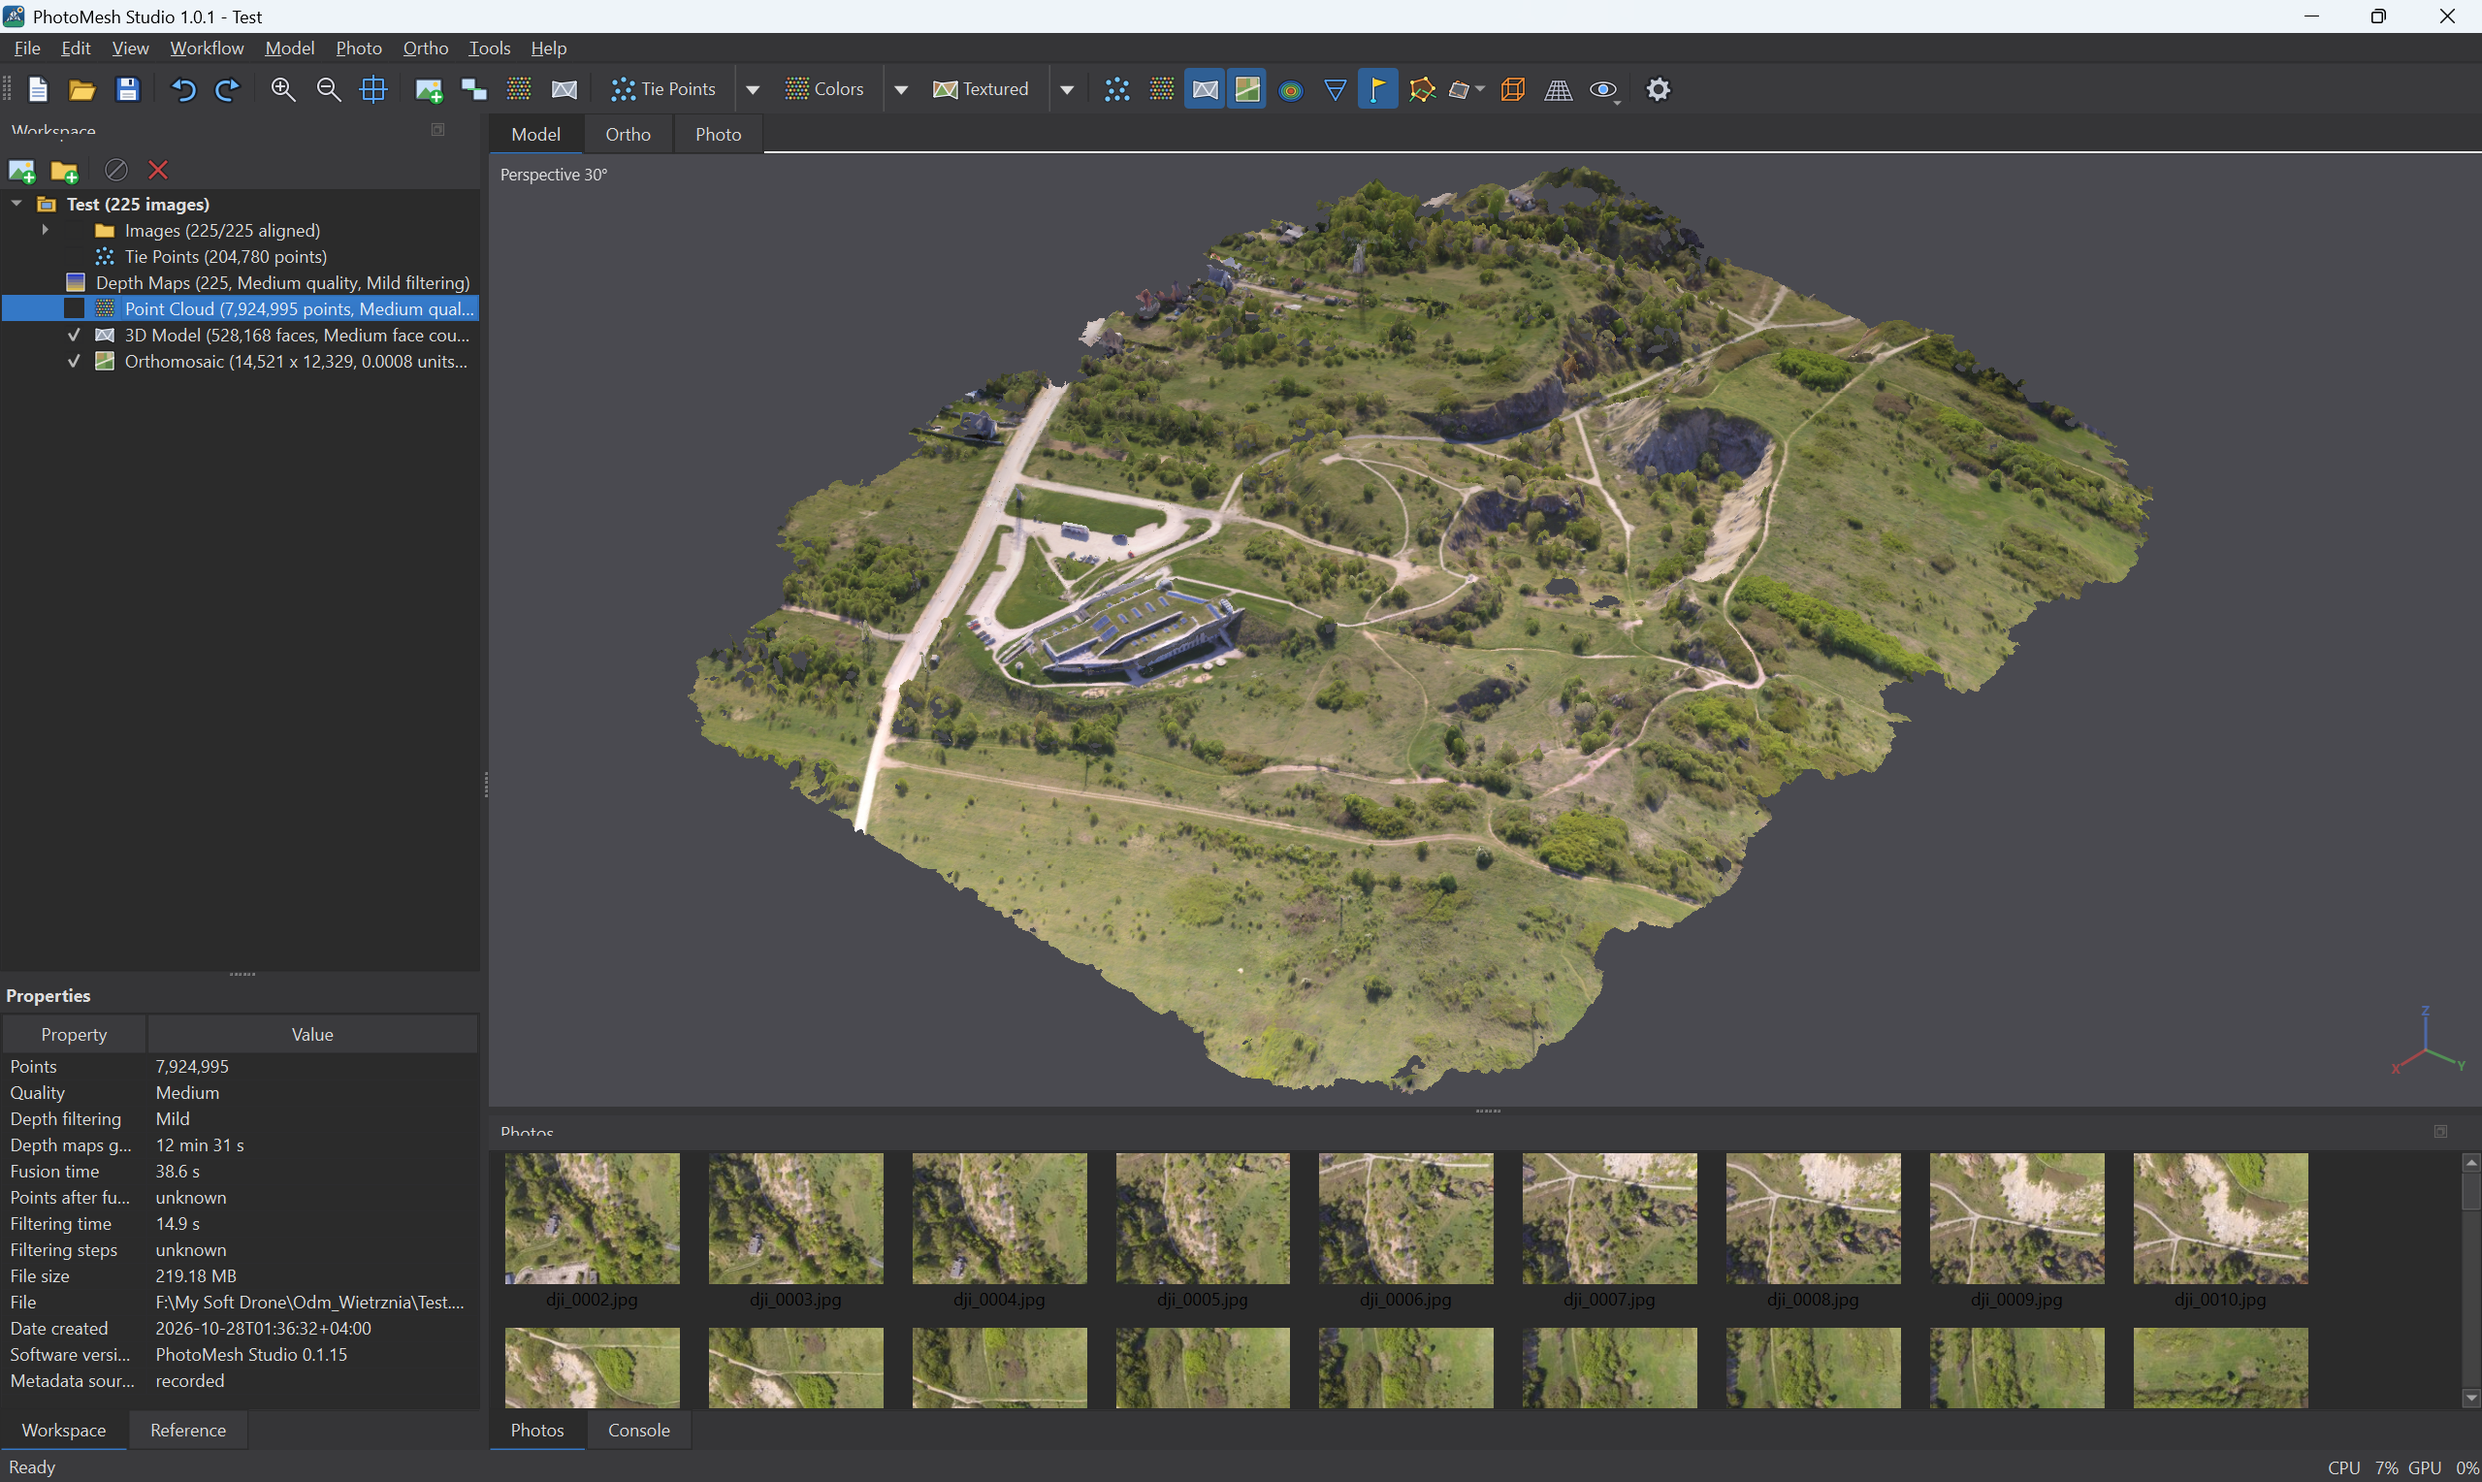
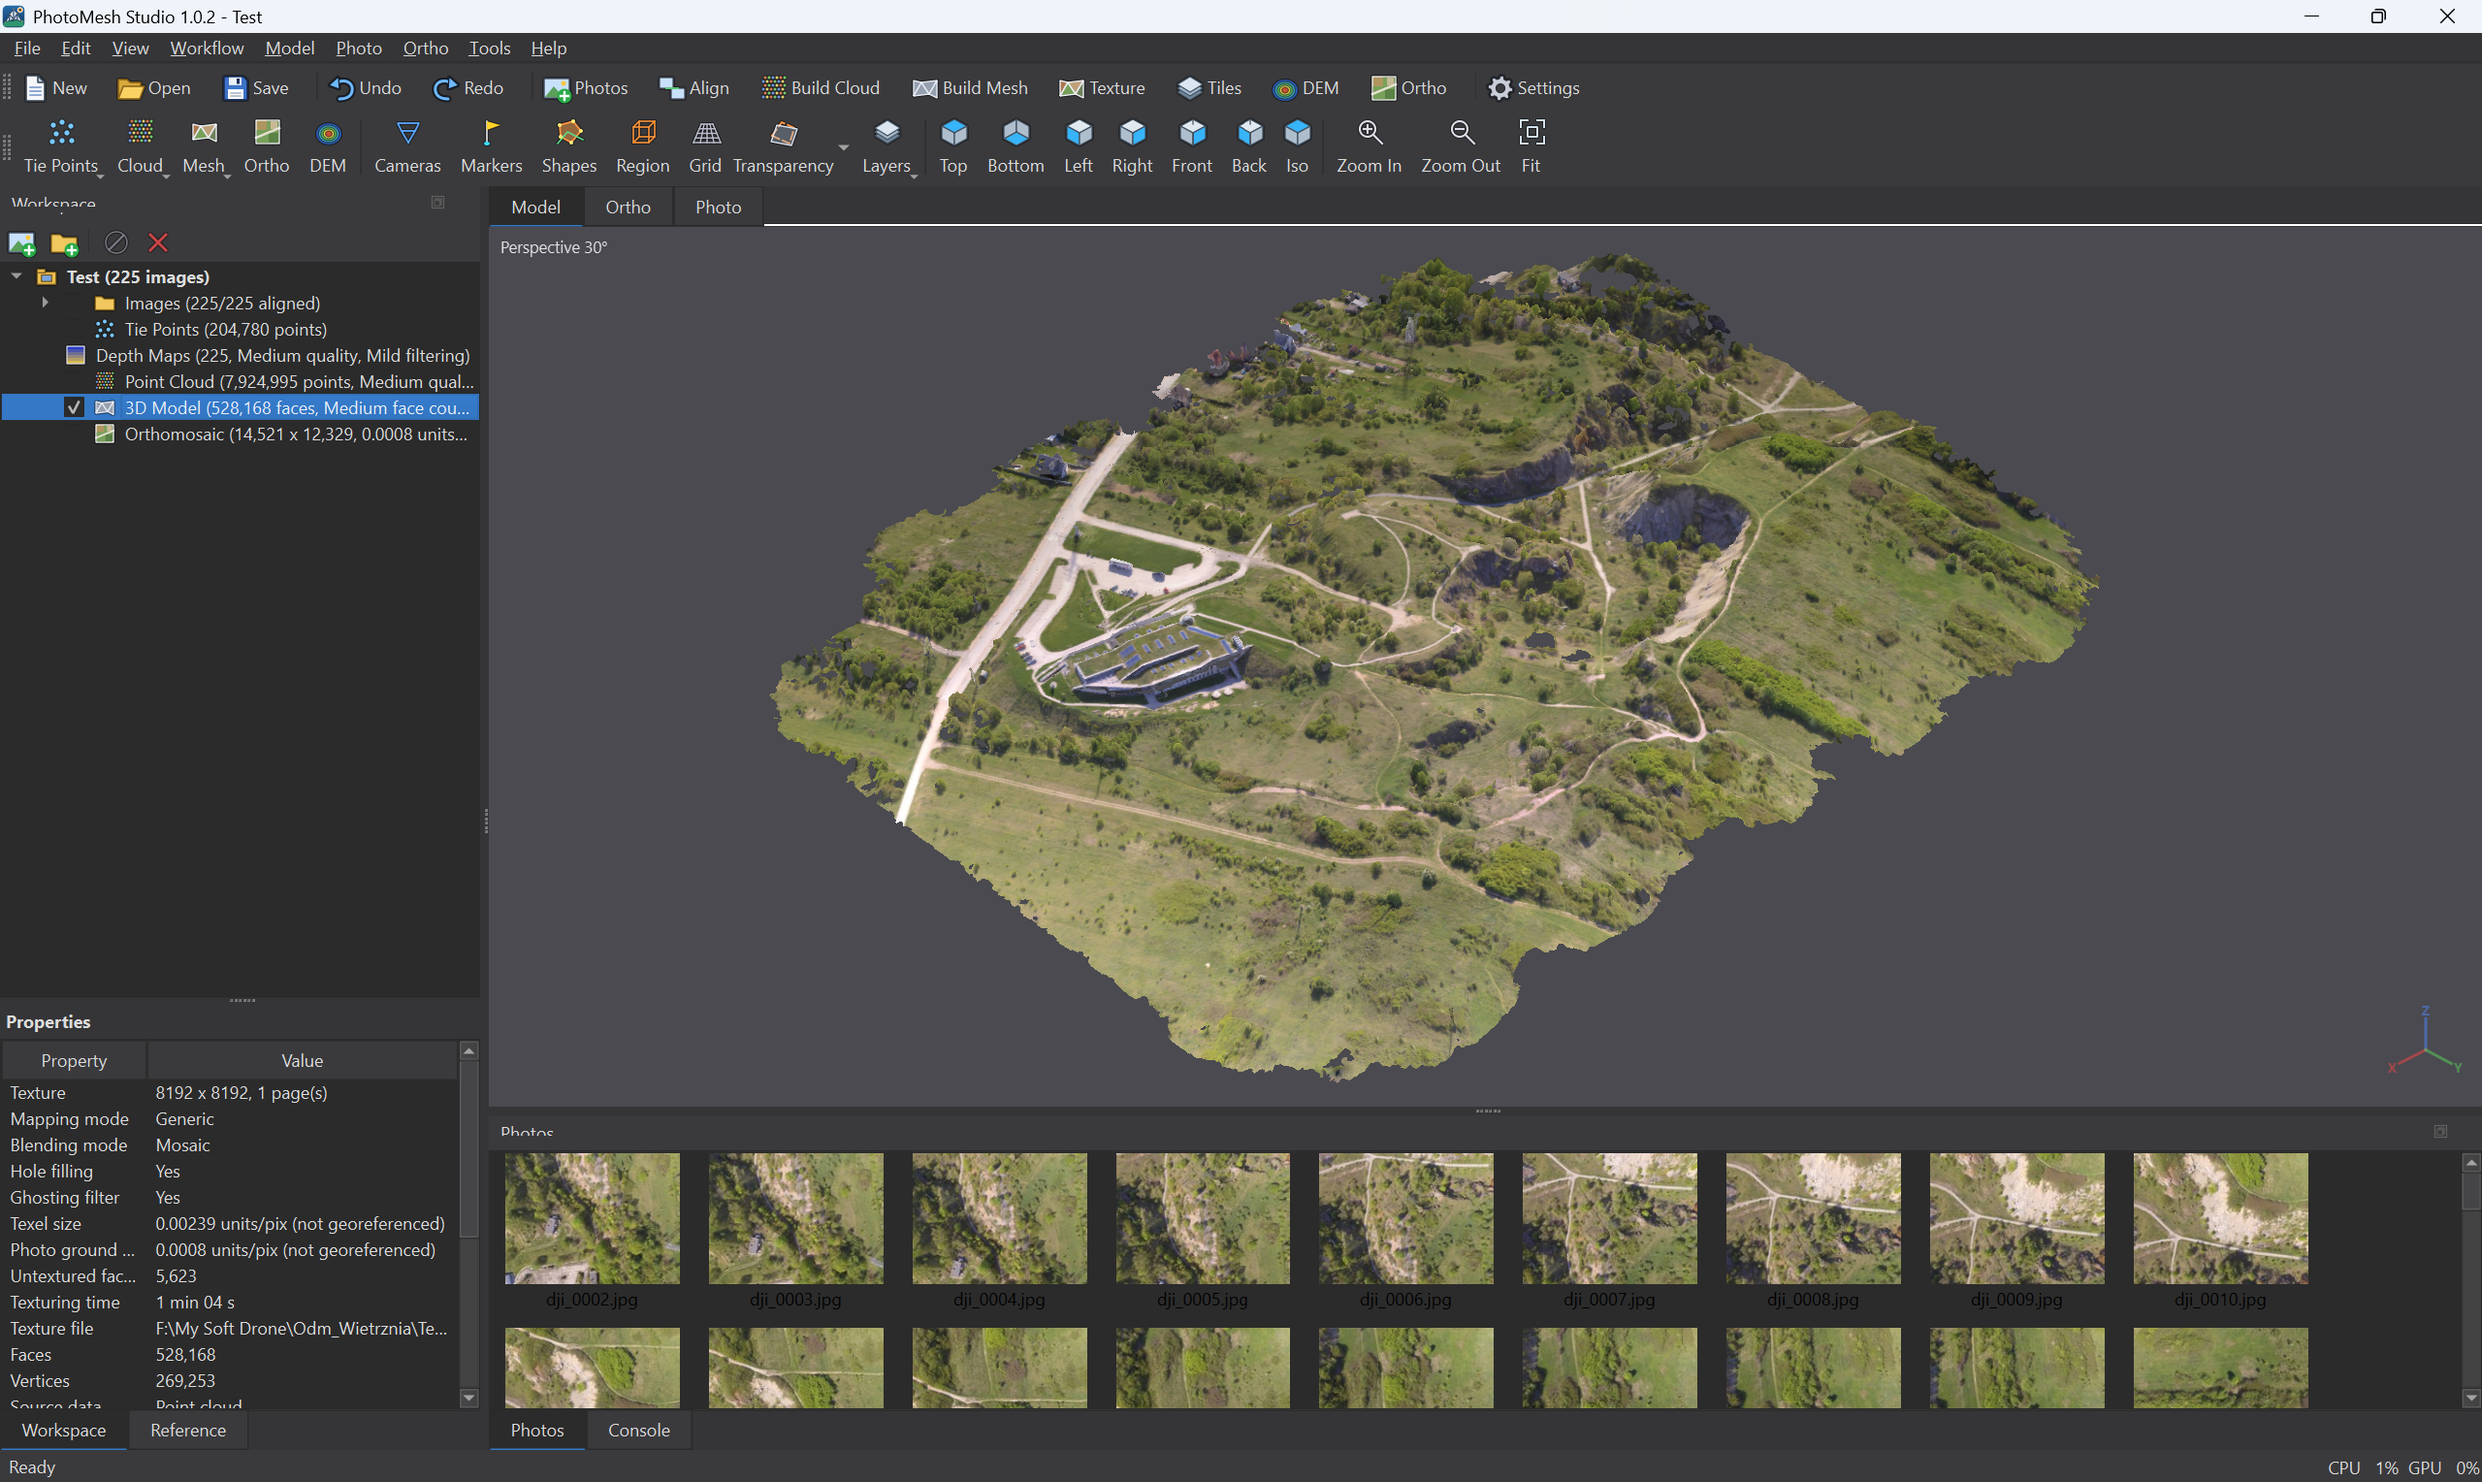
Update dark and light screenshots for the 1.0.2 compact toolbar

Changed region(s): [[0.0, 0.0308, 1.0, 0.7382], [0.0, 0.6459, 0.1852, 0.9535], [0.1852, 0.7075, 0.2161, 0.8305]]

diff --git a/README.md b/README.md
@@ -15,11 +15,11 @@ Desktop photogrammetry software for turning overlapping aerial photographs into
 
 **Dark theme**
 
-![PhotoMesh Studio 1.0.1 displaying a reconstructed aerial survey in dark mode](screenshot.png)
+![PhotoMesh Studio 1.0.2 displaying a reconstructed aerial survey in dark mode](screenshot.png)
 
 **Light theme**
 
-![PhotoMesh Studio 1.0.1 displaying a reconstructed aerial survey in light mode](screenshot-light.png)
+![PhotoMesh Studio 1.0.2 displaying a reconstructed aerial survey in light mode](screenshot-light.png)
 
 ## Install
 
